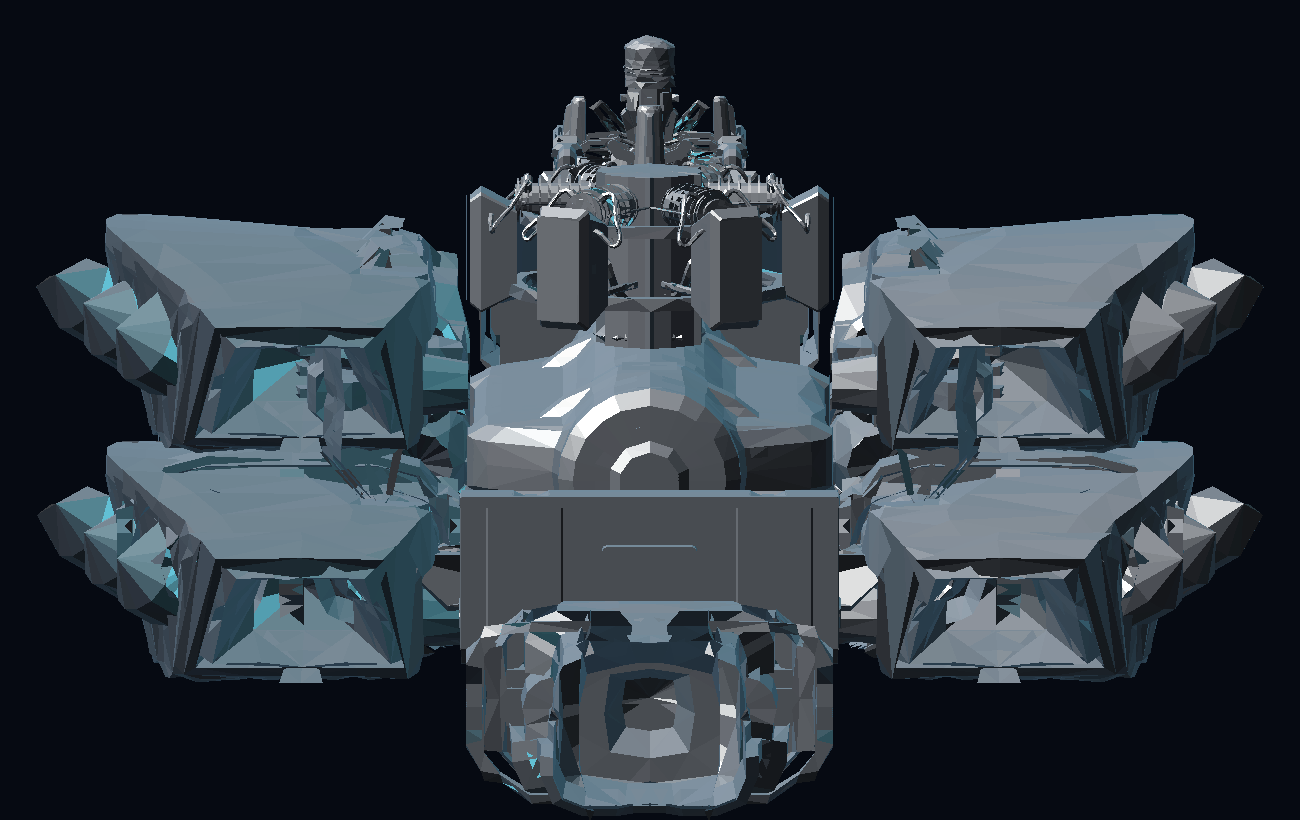
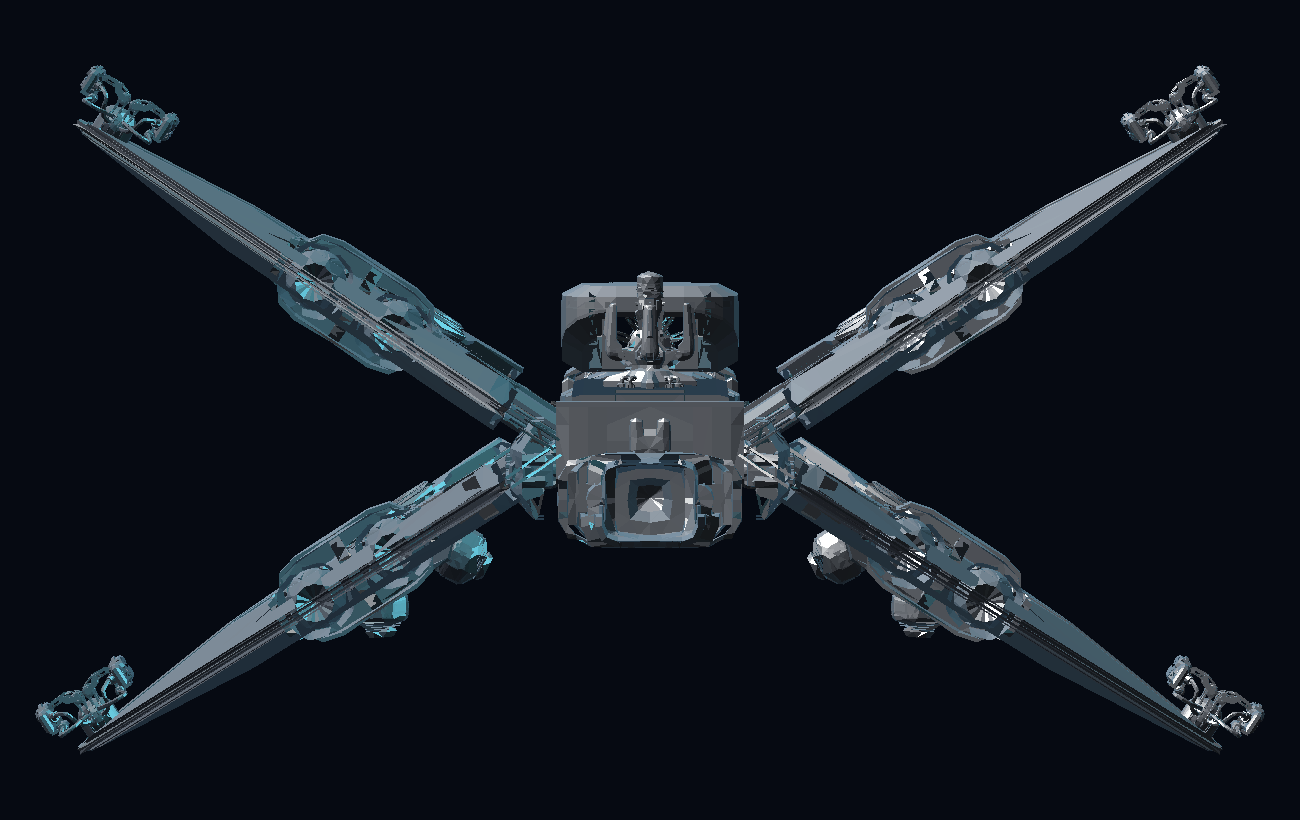
X-Wing: hand-laid, with the foils canted into a cross
The compiler could not produce an X-Wing and no amount of hint-tuning was going
to, because the shape IS the ship here: four foils canted around the fuselage,
not four planks bolted to the side of a box. Two things were missing.

- LatticePlacement.roll: rotation about the ship's longitudinal axis, taken
  about the part's own snap point. Positive lifts the outboard end, and because
  mirroring flips x the same value lifts both halves of a pair - one number per
  pair, which is exactly how an S-foil works.
- LatticePlacement.stretchX: extra stretch along the part's outboard axis. The
  pack's only long foil (B_WNG_R) is 4.53 of chord against 1.30 of span; an
  X-Wing needs the opposite ratio, so the span is stretched to 3.1.

src/lib/iconics.ts hand-draws the ships whose silhouette matters and is consulted
before the generic compiler. The X-Wing: six-cell spine, four foils hinged from
one station at +-33 degrees, a sublight pod at every root and a cannon at every
tip - the blueprint's own build notes, followed literally. Cannon, pod and skid
offsets are measured off the real mesh's tip and belly vertices rather than
guessed, which is what stops them hanging in space next to the wing.

diff --git a/src/lib/iconics.ts b/src/lib/iconics.ts
@@ -1,0 +1,188 @@
+/**
+ * Hand-authored iconic builds.
+ *
+ * The generic compiler in `blueprintLattice.ts` lays a blueprint's parts list out
+ * on the grid, and for a Star Destroyer that is the right answer: it is a long
+ * spine with things bolted to it.  It is the WRONG answer for a starfighter,
+ * because the shape IS the ship — an X-Wing is four foils canted into a cross,
+ * and no amount of tweaking a generic router gives you that.
+ *
+ * So the ships whose silhouette matters get drawn here by hand, part by part,
+ * and the blueprint's own build notes are treated as the spec they always were:
+ * "two upper, two lower, splayed at 30 degrees" is a layout instruction.
+ *
+ * Everything still snaps to the same 1.0 x 0.5 x 1.0 game grid with the same
+ * engine — these are recipes, not special cases in the renderer.
+ */
+
+import { chainZ, placedBox, rollXY, stack, type LatticePlacement } from "./lattice";
+import type { V3 } from "./render3d";
+import type { NamedRecipe } from "./fleet";
+import { styleById } from "./shipStyles";
+import type { Blueprint } from "./types";
+
+const deg = (d: number) => (d * Math.PI) / 180;
+const rad = deg;
+
+interface Foil {
+  /** which side of the hull the foil hinges on */
+  side: 1 | -1;
+  /** cant angle; positive lifts the outboard end */
+  roll: number;
+  /** z of the hinge, hull space */
+  z: number;
+}
+
+/**
+ * T-65 X-Wing.
+ *
+ * The fuselage is deliberately thin: a one-cell spine (cockpit, reactor, two
+ * connectors, hab, cap, booster) six cells long, because every fat module you
+ * add here eats the cross.  The four S-foils hinge from a single station on the
+ * aft hull, two canted +31 degrees and two -31, which is what reads as an X from
+ * the bow.  Each foil carries a sublight thruster at its root and a photon
+ * cannon at its tip — the blueprint asks for exactly four of each and says where
+ * they go.
+ */
+export function xWingRecipe(bp: Blueprint): NamedRecipe {
+  const style = styleById(bp.style ?? "corvette", 11);
+  const parts: LatticePlacement[] = [];
+
+  // ---- 1. spine: nose, reactor, slim waist, hab, cap, tail booster -------- //
+  const spine = chainZ([
+    "B_COK_A", // Titan cockpit, pointed nose
+    "B_GEN_2", // Azimuth reactor, flush with the hull line
+    "B_CON_5",
+    "B_HAB_B", // Ambassador hab - inventory + astromech
+    "B_CON_3",
+    "B_STR_A_N", // armoured cap
+    "B_TRU_G", // Arcadia heavy booster, central powerplant
+  ]);
+  parts.push(...spine.map((p) => ({ ...p, role: p.role === "first" ? "nose" : p.role })));
+
+  const hosts = spine.map((p) => ({ place: p, box: placedBox(p.assetId, p.pos, p.yaw, p.mirror, p.scale ?? 1)! }));
+  const at = (t: number) => hosts[Math.max(0, Math.min(hosts.length - 1, Math.round(t * (hosts.length - 1))))];
+
+  // hull half-width where the foils hinge, and mid-height so the roll is symmetric
+  const HINGE: Foil[] = [
+    { side: 1, roll: rad(33), z: -3.2 },
+    { side: 1, roll: rad(-33), z: -3.2 },
+    { side: -1, roll: rad(33), z: -3.2 },
+    { side: -1, roll: rad(-33), z: -3.2 },
+  ];
+  const EDGE = 0.47;
+  const Y0 = 0.26;
+  // B_WNG_R is the one true foil in the pack: 0.35 thick and 4.53 long against a
+  // 1.30 span. A starfighter needs the opposite ratio - more span than chord -
+  // and the pack has no such wing, so the span is stretched. At 0.80 scale the
+  // foil comes out 3.6 of chord by 3.1 of span, which is the X-Wing's own
+  // proportion, and the splay then reads as a cross from every angle.
+  const FOIL_SCALE = 0.80;
+  const FOIL_STRETCH = 3.0;
+
+  /**
+   * A point given in the foil's own coordinates -> ship space.
+   *
+   * The foil hinges at (EDGE, Y0, z), so a wing-local offset is scaled, rolled
+   * about that hinge and only then mirrored, which is what makes one roll value
+   * lift both halves of a pair.
+   */
+  const onFoil = (f: Foil, lx: number, ly: number, lz: number): V3 => {
+    const [rx, ry] = rollXY(lx * FOIL_SCALE * FOIL_STRETCH, ly * FOIL_SCALE, f.roll);
+    return [f.side * (EDGE + rx), Y0 + ry, f.z + lz * FOIL_SCALE];
+  };
+
+  const foilPlace = (f: Foil): LatticePlacement => ({
+    assetId: "B_WNG_R",
+    pos: [f.side * EDGE, Y0, f.z],
+    mirror: f.side < 0,
+    roll: f.roll,
+    scale: FOIL_SCALE,
+    stretchX: FOIL_STRETCH,
+    role: f.roll > 0 ? "upper S-foil" : "lower S-foil",
+  });
+
+  const foils = HINGE.map(foilPlace);
+  parts.push(...foils);
+
+  // ---- 2. one thruster per foil root, one cannon per foil tip ------------- //
+  // Measured off the real mesh rather than guessed: B_WNG_R's own tip vertex sits
+  // at wing-local (1.30, -0.03, -0.69) and its belly at y -0.18, so cannon, pod
+  // and skid are all anchored to those numbers. Guessing them is how you end up
+  // with a cannon hanging in space next to the wing.
+  foils.forEach((foil, i) => {
+    const f = HINGE[i];
+    parts.push({
+      assetId: "B_TRU_A", // Arcadia Sublight Thruster
+      pos: onFoil(f, 0.55, 0.00, -0.75),
+      mirror: f.side < 0,
+      roll: f.roll,
+      role: "thruster pod",
+    });
+
+    parts.push({
+      assetId: "B_TUR_A", // Photon Cannon Array
+      pos: onFoil(f, 1.22, -0.03, -0.60),
+      mirror: f.side < 0,
+      roll: f.roll,
+      role: "wingtip cannon",
+    });
+  });
+
+  // ---- 3. skids under the two lower foils --------------------------------- //
+  // B_LND_B reaches UP from its own origin (y +0.14 .. +0.52), so the origin is
+  // set one strut-length under the foil's belly at y -0.18 for it to hang.
+  parts.push(
+    {
+      assetId: "B_LND_B",
+      pos: onFoil(HINGE[1], 0.45, -0.70, -0.35),
+      mirror: HINGE[1].side < 0,
+      roll: HINGE[1].roll,
+      role: "landing skid",
+    },
+    {
+      assetId: "B_LND_B",
+      pos: onFoil(HINGE[3], 0.45, -0.70, -0.35),
+      mirror: HINGE[3].side < 0,
+      roll: HINGE[3].roll,
+      role: "landing skid",
+    },
+    // flush side fairings: the two winglets have nowhere else to live without
+    // breaking the cross, so they hug the aft hull
+    { assetId: "B_WNG_K", pos: [0.44, 0.12, -4.35], scale: 0.5, role: "hull fairing" },
+    { assetId: "B_WNG_K", pos: [-0.44, 0.12, -4.35], mirror: true, scale: 0.5, role: "hull fairing" },
+  );
+
+  // ---- 4. deck kit -------------------------------------------------------- //
+  parts.push(
+    stack("B_SHL_A", at(0.62).place, { below: false }), // Aeron powershield on the hab deck
+    stack("B_ALK_B", at(0.34).place, { below: false }), // walkway collar, breaks the spine
+  );
+
+  const boxes = parts.map((p) => placedBox(p.assetId, p.pos, p.yaw ?? 0, p.mirror, p.scale ?? 1, p.roll ?? 0));
+  void boxes;
+
+  return {
+    id: bp.slug,
+    name: bp.name,
+    role: `${bp.role} · hand-laid`,
+    blurb:
+      "Six-cell spine, four S-foils hinged from one station and canted 31 degrees, a sublight pod at every root and a cannon at every tip. The blueprint's own notes, followed literally.",
+    hull: style.hullBase,
+    hullDark: style.hullDark,
+    emissive: style.emissive,
+    glow: 0.6,
+    environment: style.environment,
+    parts,
+  };
+}
+
+/** slugs that have a hand-drawn layout; everything else uses the compiler */
+export const ICONIC_BUILDERS: Record<string, (bp: Blueprint) => NamedRecipe> = {
+  "x-wing-t65": xWingRecipe,
+};
+
+export function iconicRecipe(bp: Blueprint): NamedRecipe | null {
+  const build = ICONIC_BUILDERS[bp.slug];
+  return build ? build(bp) : null;
+}

diff --git a/src/lib/lattice.ts b/src/lib/lattice.ts
@@ -46,6 +46,23 @@ export interface LatticePlacement {
    * fuselage.  Everything (extent, bbox, plume position) follows.
    */
   scale?: number;
+  /**
+   * Extra stretch along the part's own outboard axis, applied after `scale`.
+   *
+   * The corvette pack has exactly one long thin foil (B_WNG_R: 4.53 of chord
+   * against 1.30 of span), and a starfighter needs the opposite ratio - an
+   * X-Wing reaches further out than it does fore-and-aft.  Stretching the span
+   * gets the silhouette without touching the chord or the thickness.
+   */
+  stretchX?: number;
+  /**
+   * Continuous rotation about the ship's longitudinal axis, in radians, taken
+   * about the part's own snap point.  This is what turns a wing from a plank
+   * sticking out sideways into an S-foil canted up into the X: a positive roll
+   * lifts the outboard end, and because mirroring flips the x axis the same
+   * value lifts BOTH halves of a pair, which is exactly the upper two foils.
+   */
+  roll?: number;
   /** label used by the manual / parts list */
   role?: string;
   /**
@@ -90,20 +107,29 @@ function lookup(assetId: string): PackedPart | null {
 }
 
 /** world-space bbox of a part once its transform is applied */
-export function placedBox(assetId: string, pos: V3, yaw = 0, mirror = false, scale = 1): Box | null {
+export function placedBox(
+  assetId: string,
+  pos: V3,
+  yaw = 0,
+  mirror = false,
+  scale = 1,
+  roll = 0,
+  stretchX = 1,
+): Box | null {
   const p = lookup(assetId);
   if (!p) return null;
   const raw = partBox(p);
   const b: Box = {
-    min: [raw.min[0] * scale, raw.min[1] * scale, raw.min[2] * scale],
-    max: [raw.max[0] * scale, raw.max[1] * scale, raw.max[2] * scale],
+    min: [raw.min[0] * scale * stretchX, raw.min[1] * scale, raw.min[2] * scale],
+    max: [raw.max[0] * scale * stretchX, raw.max[1] * scale, raw.max[2] * scale],
   };
   const corners: V3[] = [];
   for (const cx of [b.min[0], b.max[0]]) {
     for (const cy of [b.min[1], b.max[1]]) {
       for (const cz of [b.min[2], b.max[2]]) {
-        const [x, z] = rotateY(cx, cz, yaw);
-        corners.push([pos[0] + (mirror ? -x : x), pos[1] + cy, pos[2] + z]);
+        const [rx, ry] = rollXY(cx, cy, roll);
+        const [x, z] = rotateY(rx, cz, yaw);
+        corners.push([pos[0] + (mirror ? -x : x), pos[1] + ry, pos[2] + z]);
       }
     }
   }
@@ -111,6 +137,14 @@ export function placedBox(assetId: string, pos: V3, yaw = 0, mirror = false, sca
     min: [Math.min(...corners.map((c) => c[0])), Math.min(...corners.map((c) => c[1])), Math.min(...corners.map((c) => c[2]))],
     max: [Math.max(...corners.map((c) => c[0])), Math.max(...corners.map((c) => c[1])), Math.max(...corners.map((c) => c[2]))],
   };
+}
+
+/** rotation in the ship's cross-section plane; positive lifts the outboard end */
+export function rollXY(x: number, y: number, roll: number): [number, number] {
+  if (!roll) return [x, y];
+  const c = Math.cos(roll);
+  const s = Math.sin(roll);
+  return [x * c - y * s, x * s + y * c];
 }
 
 function rotateY(x: number, z: number, quarters: number): [number, number] {
@@ -181,26 +215,40 @@ export function flank(
     yOffset?: number;
     yaw?: number;
     scale?: number;
+    roll?: number;
+    stretchX?: number;
   } = {},
 ): LatticePlacement {
-  const { side = 1, overlap = 0, zOffset = 0, yOffset = 0, yaw = 0, scale = 1 } = opts;
+  const {
+    side = 1,
+    overlap = 0,
+    zOffset = 0,
+    yOffset = 0,
+    yaw = 0,
+    scale = 1,
+    roll = 0,
+    stretchX = 1,
+  } = opts;
   const hostBox = placedBox(host.assetId, host.pos, host.yaw ?? 0, host.mirror, host.scale ?? 1);
-  const child = lookup(assetId);
-  const childMinX = child ? partBox(child).min[0] : 0;
+  // The inboard extent has to be measured AFTER the roll: a foil canted 30
+  // degrees no longer reaches as far sideways as its flat bbox claims.
+  const childLocal = placedBox(assetId, [0, 0, 0], 0, false, scale, roll, stretchX);
+  const childMinX = childLocal ? childLocal.min[0] : 0;
   const edge = hostBox ? (side > 0 ? hostBox.max[0] : hostBox.min[0]) : 0.5 * side;
 
   // The child's INBOARD face is the one that has to land on the hull edge, and
   // which local face that is depends on whether the asset reaches outboard from
   // its origin (wings: local x runs 0..1) or straddles it (boosters: -0.49..0.52).
   // Mirroring maps local +x onto world -x, so both cases reduce to childMinX.
-  const scaledMinX = childMinX * scale;
-  const x = (side > 0 ? edge - scaledMinX : edge + scaledMinX) + overlap * side;
+  const x = (side > 0 ? edge - childMinX : edge + childMinX) + overlap * side;
   return {
     assetId,
     pos: [x, host.pos[1] + yOffset, host.pos[2] + zOffset],
     yaw,
     mirror: side < 0,
     scale,
+    roll,
+    stretchX,
     role: side < 0 ? "port" : "starboard",
   };
 }
@@ -296,6 +344,8 @@ export function assembleCorvette(recipe: LatticeRecipe, opts: AssembleOptions = 
     const yaw = place.yaw ?? 0;
     const mirror = place.mirror ?? false;
     const scale = place.scale ?? 1;
+    const roll = place.roll ?? 0;
+    const stretchX = place.stretchX ?? 1;
     const triCount = dec.indices.length / 3;
     const order = largestTris(dec.positions, dec.indices, triCount, maxTris);
 
@@ -324,14 +374,20 @@ export function assembleCorvette(recipe: LatticeRecipe, opts: AssembleOptions = 
       nz /= nl;
 
       for (const vi of [a, b, c]) {
-        const [rx, rz] = rotateY(dec.positions[vi] * scale, dec.positions[vi + 2] * scale, yaw);
+        const [lx, ly] = rollXY(
+          dec.positions[vi] * scale * stretchX,
+          dec.positions[vi + 1] * scale,
+          roll,
+        );
+        const [rx, rz] = rotateY(lx, dec.positions[vi + 2] * scale, yaw);
         const wx = mirror ? -rx : rx;
-        pts.push([
-          place.pos[0] + wx,
-          place.pos[1] + dec.positions[vi + 1] * scale,
-          place.pos[2] + rz,
-        ]);
+        pts.push([place.pos[0] + wx, place.pos[1] + ly, place.pos[2] + rz]);
       }
+      // the roll only moves the part, not the lighting rig it is lit by
+      const [rnx, rny] = rollXY(nx, ny, roll);
+      nx = rnx;
+      ny = rny;
+
       // mirroring flips winding, and so does a normal pointing the wrong way
       if (mirror) pts.reverse();
       if (mirror) {
@@ -374,7 +430,7 @@ export function assembleCorvette(recipe: LatticeRecipe, opts: AssembleOptions = 
     // the nozzle without anyone having to hand-place it.
     const wantsPlume = place.plume !== false && (place.plume || place.assetId.startsWith("B_TRU"));
     if (wantsPlume) {
-      const own = placedBox(place.assetId, place.pos, yaw, mirror, scale);
+      const own = placedBox(place.assetId, place.pos, yaw, mirror, scale, roll, stretchX);
       if (own) {
         const cfg = typeof place.plume === "object" ? place.plume : {};
         const spanX = own.max[0] - own.min[0];

diff --git a/src/lib/blueprintLattice.ts b/src/lib/blueprintLattice.ts
@@ -31,6 +31,7 @@ import {
 } from "./lattice";
 import type { NamedRecipe } from "./fleet";
 import type { Blueprint, Part } from "./types";
+import { iconicRecipe } from "./iconics";
 
 interface Box {
   min: [number, number, number];
@@ -310,6 +311,11 @@ function spread(n: number, lo: number, hi: number): number[] {
 }
 
 export function blueprintToRecipe(bp: Blueprint): NamedRecipe {
+  // Ships whose silhouette is the whole point are drawn by hand; the compiler is
+  // the fallback, not the default.
+  const handmade = iconicRecipe(bp);
+  if (handmade) return handmade;
+
   const bag = collect(bp);
   const style = styleById(bp.style ?? "corvette", hash(bp.id) % 97);
   const seed = hash(bp.id);
